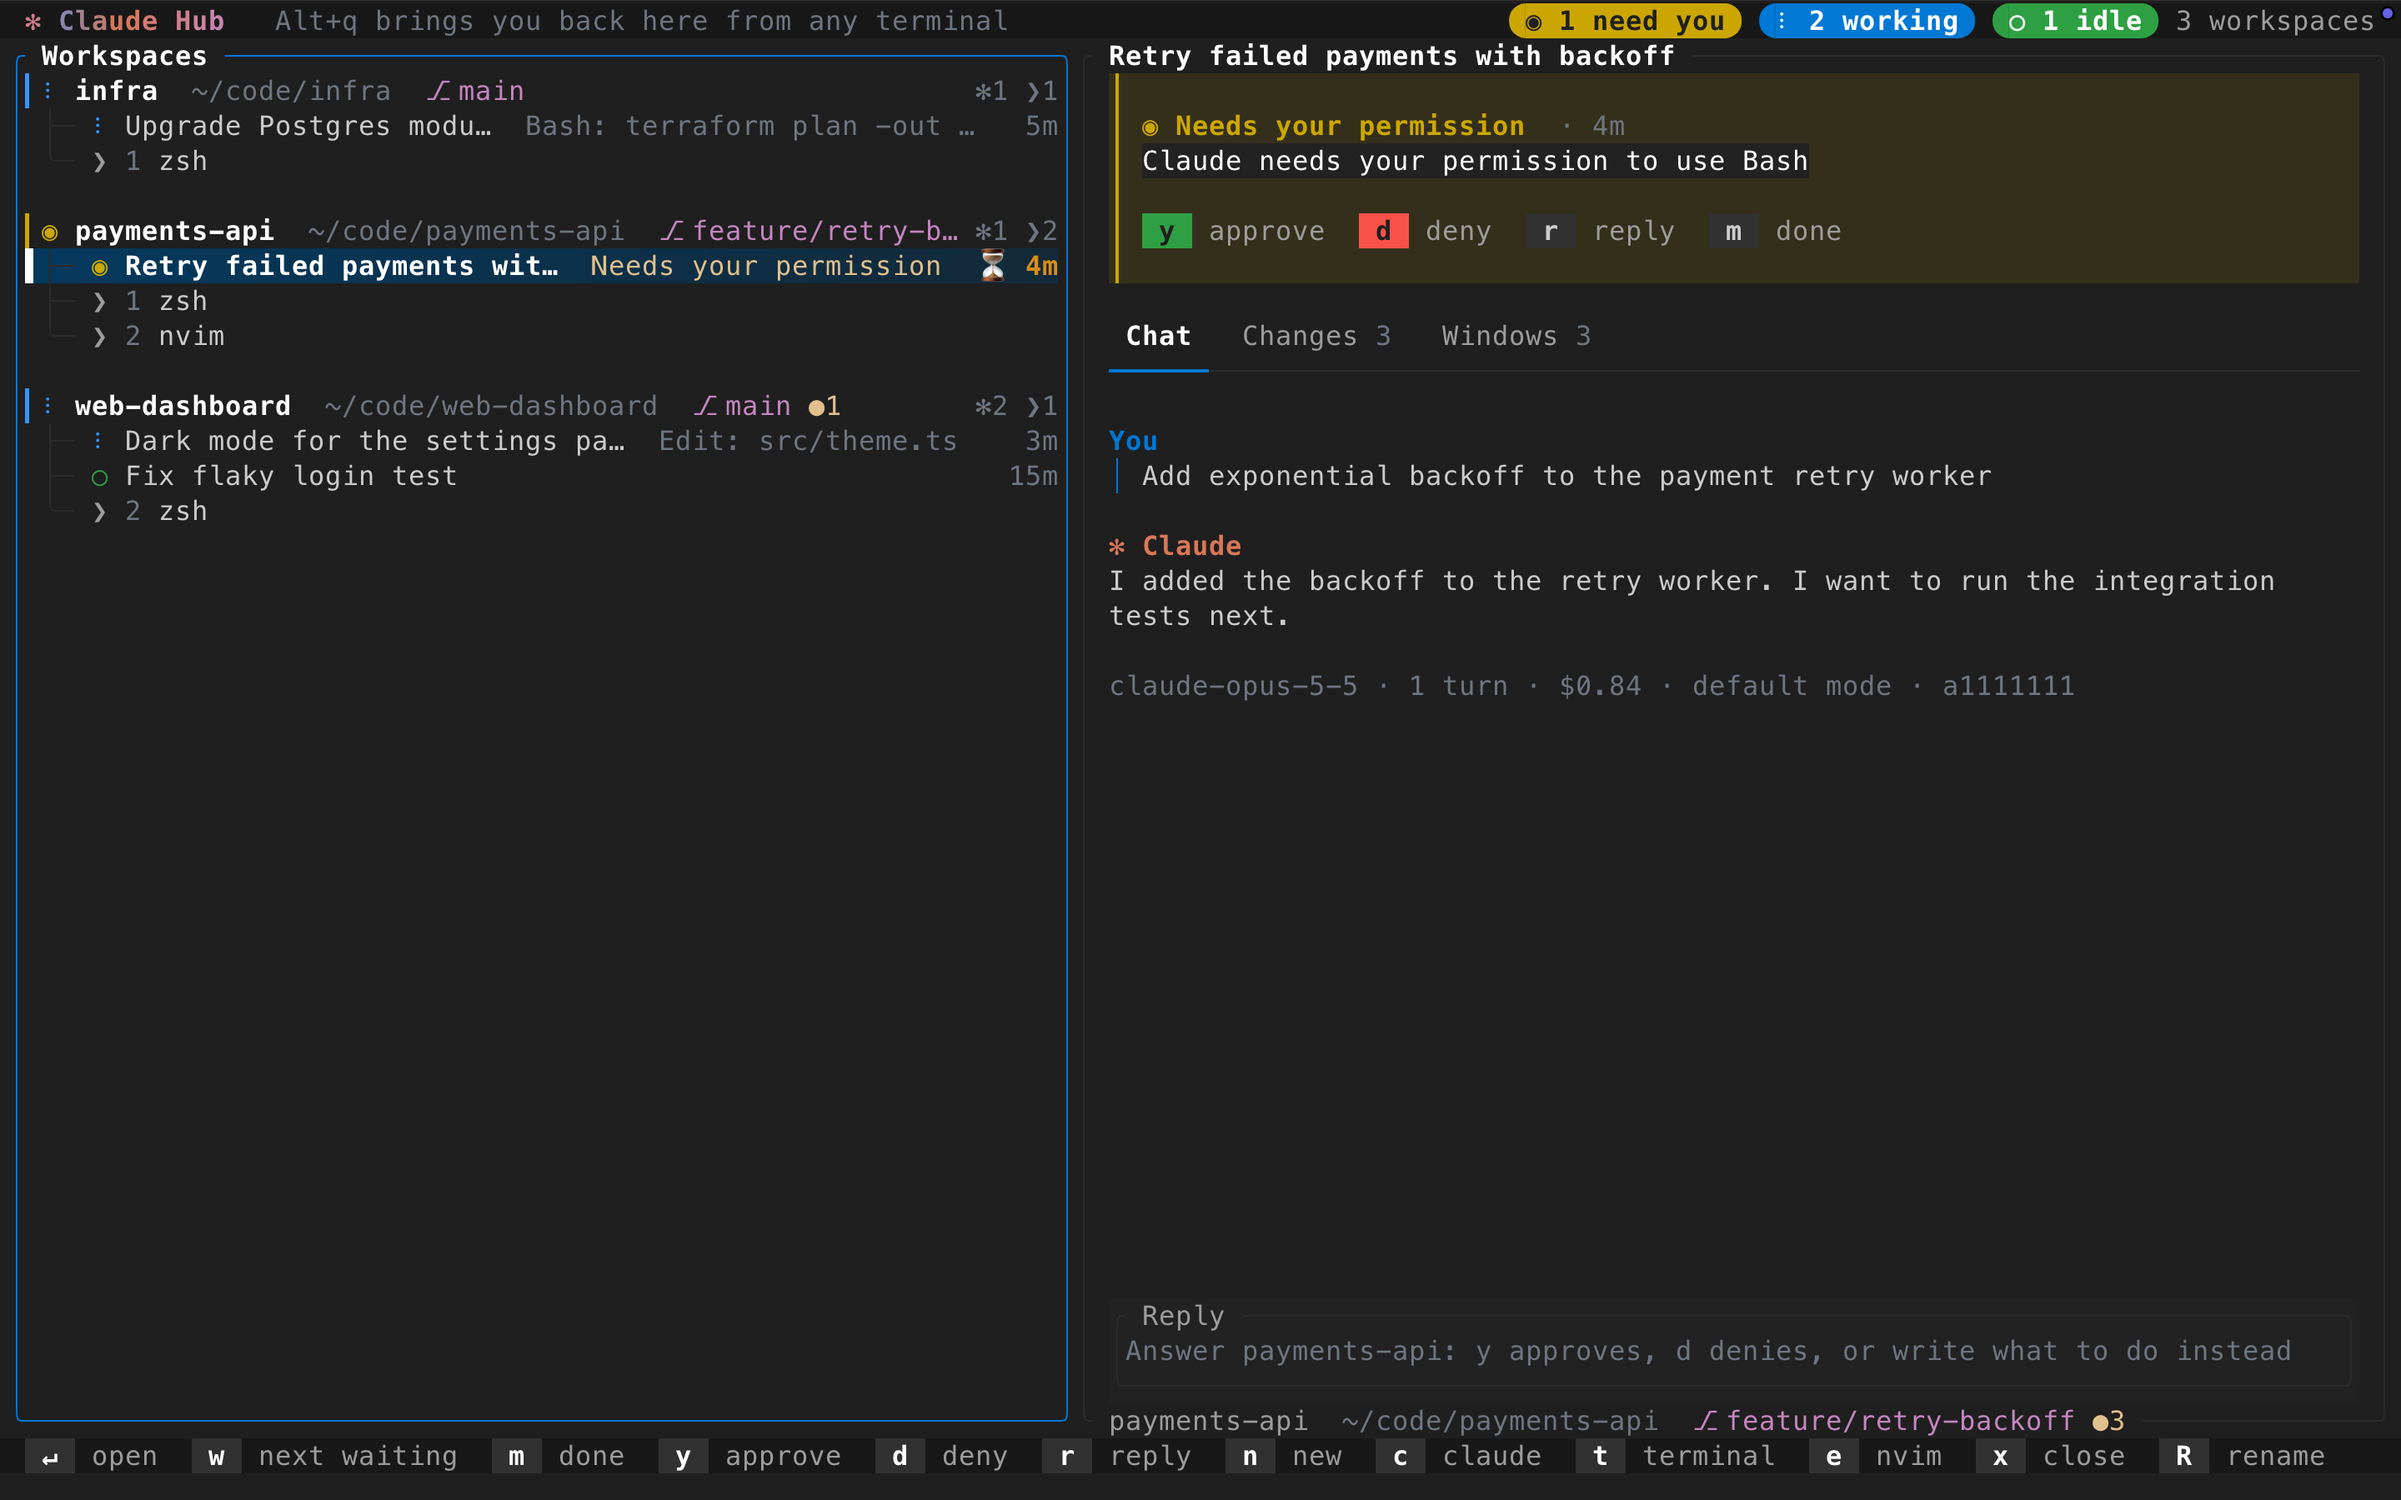
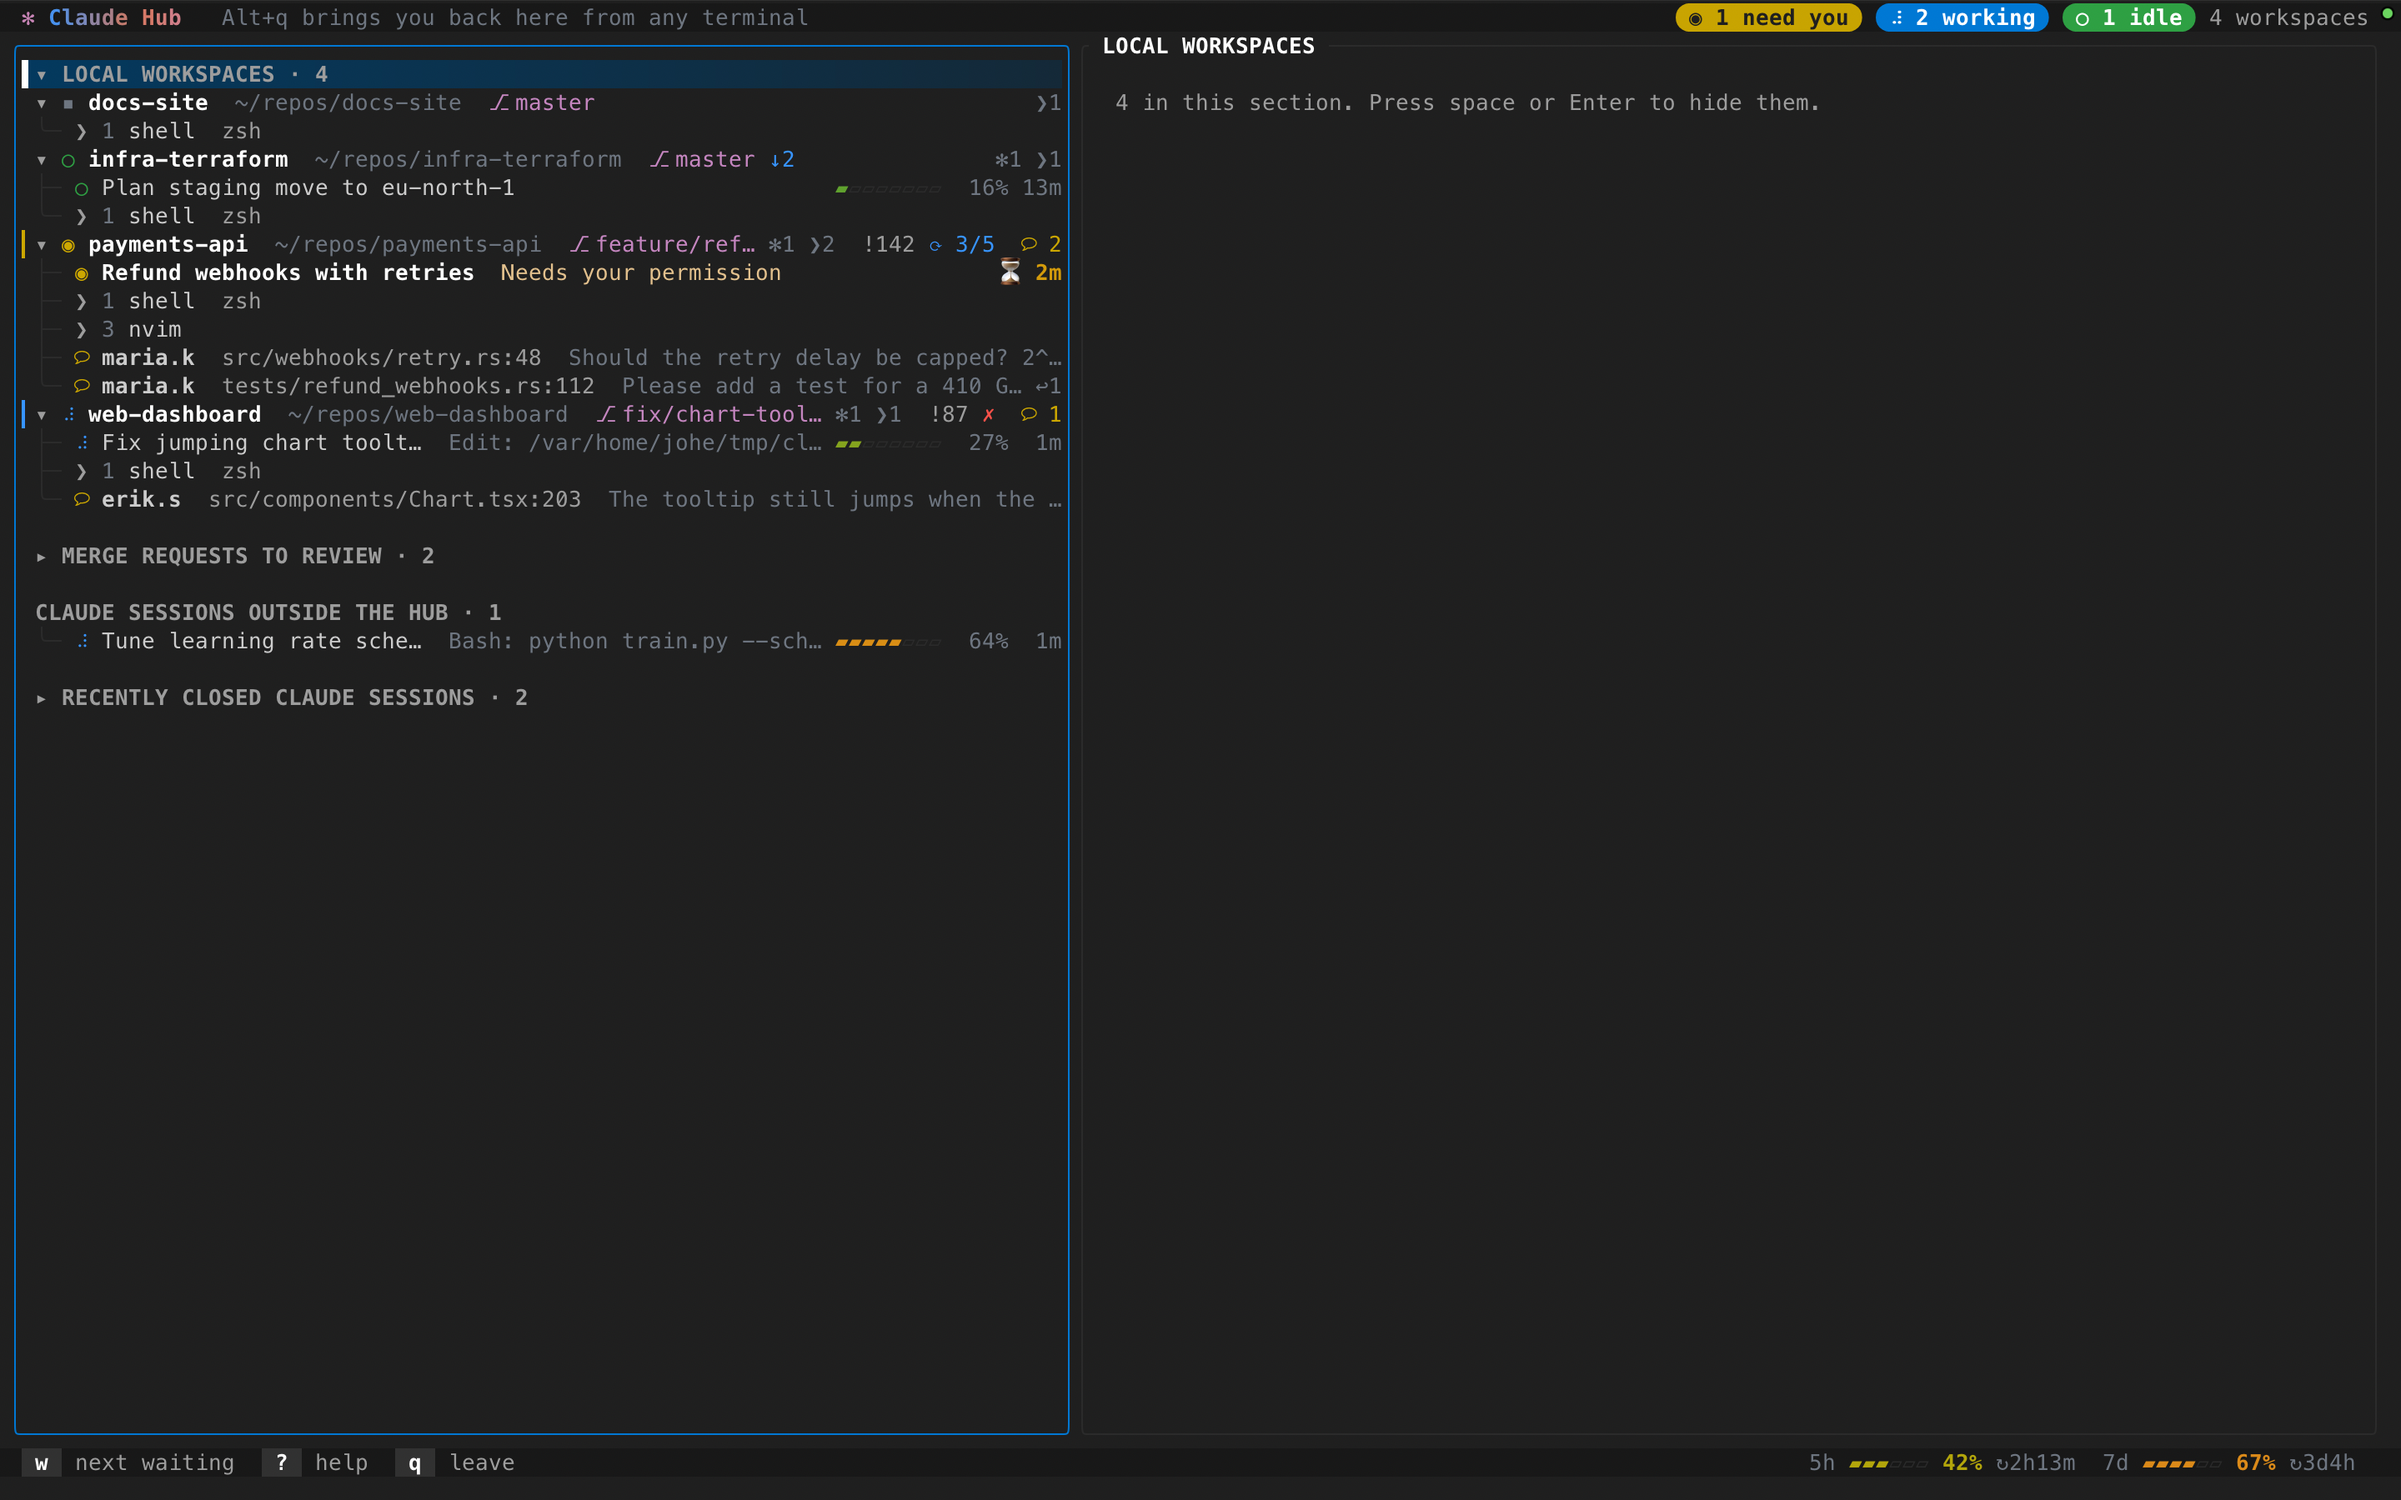
Update README screenshot

diff --git a/README.md b/README.md
@@ -2,7 +2,7 @@
 
 One place for your Claude Code sessions and the terminals around them.
 
-![The hub with three workspaces, one agent waiting for permission](docs/screenshot.png)
+![The hub with four workspaces, merge requests and one agent waiting for permission](docs/screenshot.png)
 
 The hub lists your **workspaces**, the ones that need you first. A workspace is a directory
 with its Claude sessions, shells and editors. Under each workspace you see its **agents**
